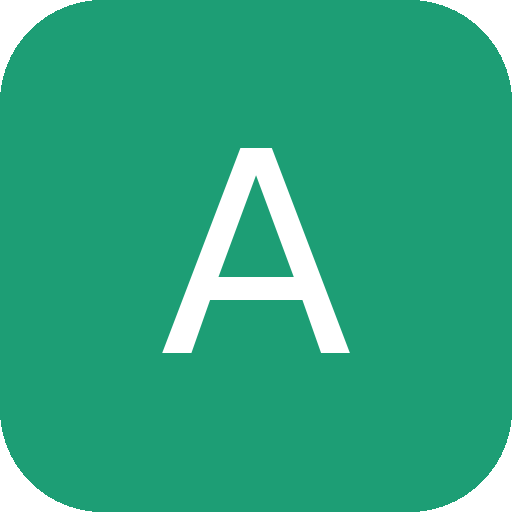
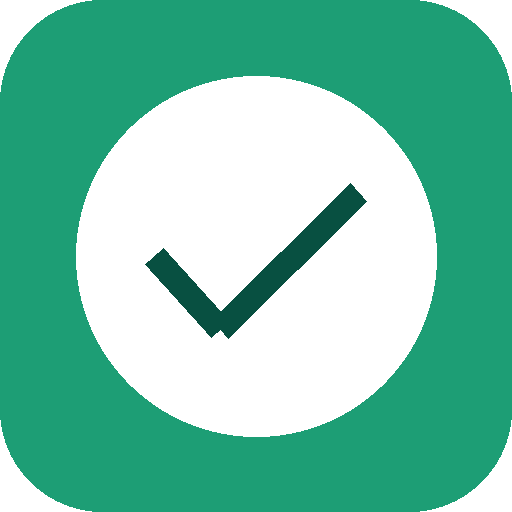
Add files via upload

diff --git a/index.html b/index.html
@@ -11,7 +11,7 @@
 <meta name="description" content="Sistem Absensi Karyawan SPPG Bagan">
 <title>Absensi SPPG</title>
 <link rel="manifest" href="manifest.json">
-<link rel="apple-touch-icon" href="icon-192.png">
+<link rel="apple-touch-icon" href="apple-touch-icon.png">
 <link rel="icon" type="image/png" sizes="192x192" href="icon-192.png">
 <style>
 *{box-sizing:border-box;margin:0;padding:0}